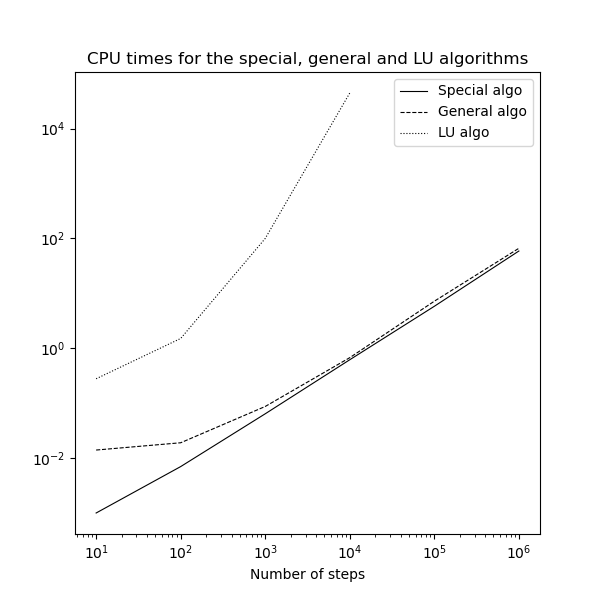
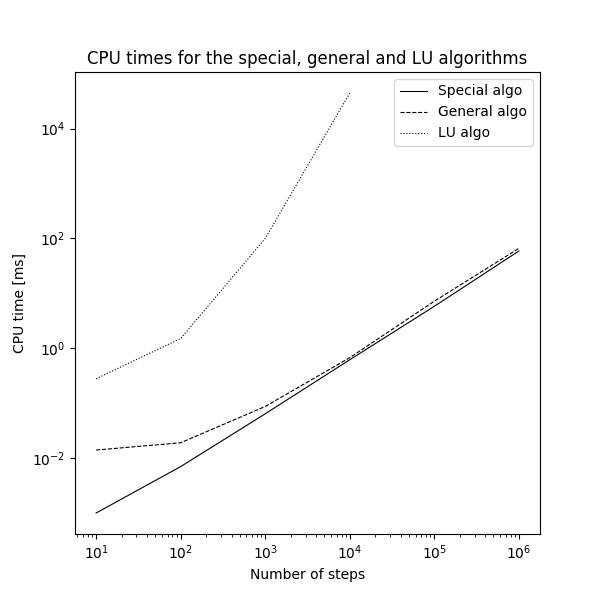
update plot y-akse

Changed region(s): [[0.15, 0.06, 0.9, 0.12], [0.0, 0.42, 0.06, 0.57], [0.75, 0.21, 0.81, 0.24]]

diff --git a/plot.py b/plot.py
@@ -52,7 +52,7 @@ def plot_rel_errors():
     plt.xlabel('$log_{10}(h)$');plt.ylabel('$log_{10}(\\varepsilon$)')
     plt.savefig('max_errors.png')
     plt.show()
-plot_rel_errors()
+#plot_rel_errors()
 
 def error():
     rel_error=np.abs((LU-analytic)/analytic)
@@ -81,4 +81,4 @@ def c():
 
     plt.savefig('c.png')
 
-#c()
+c()
